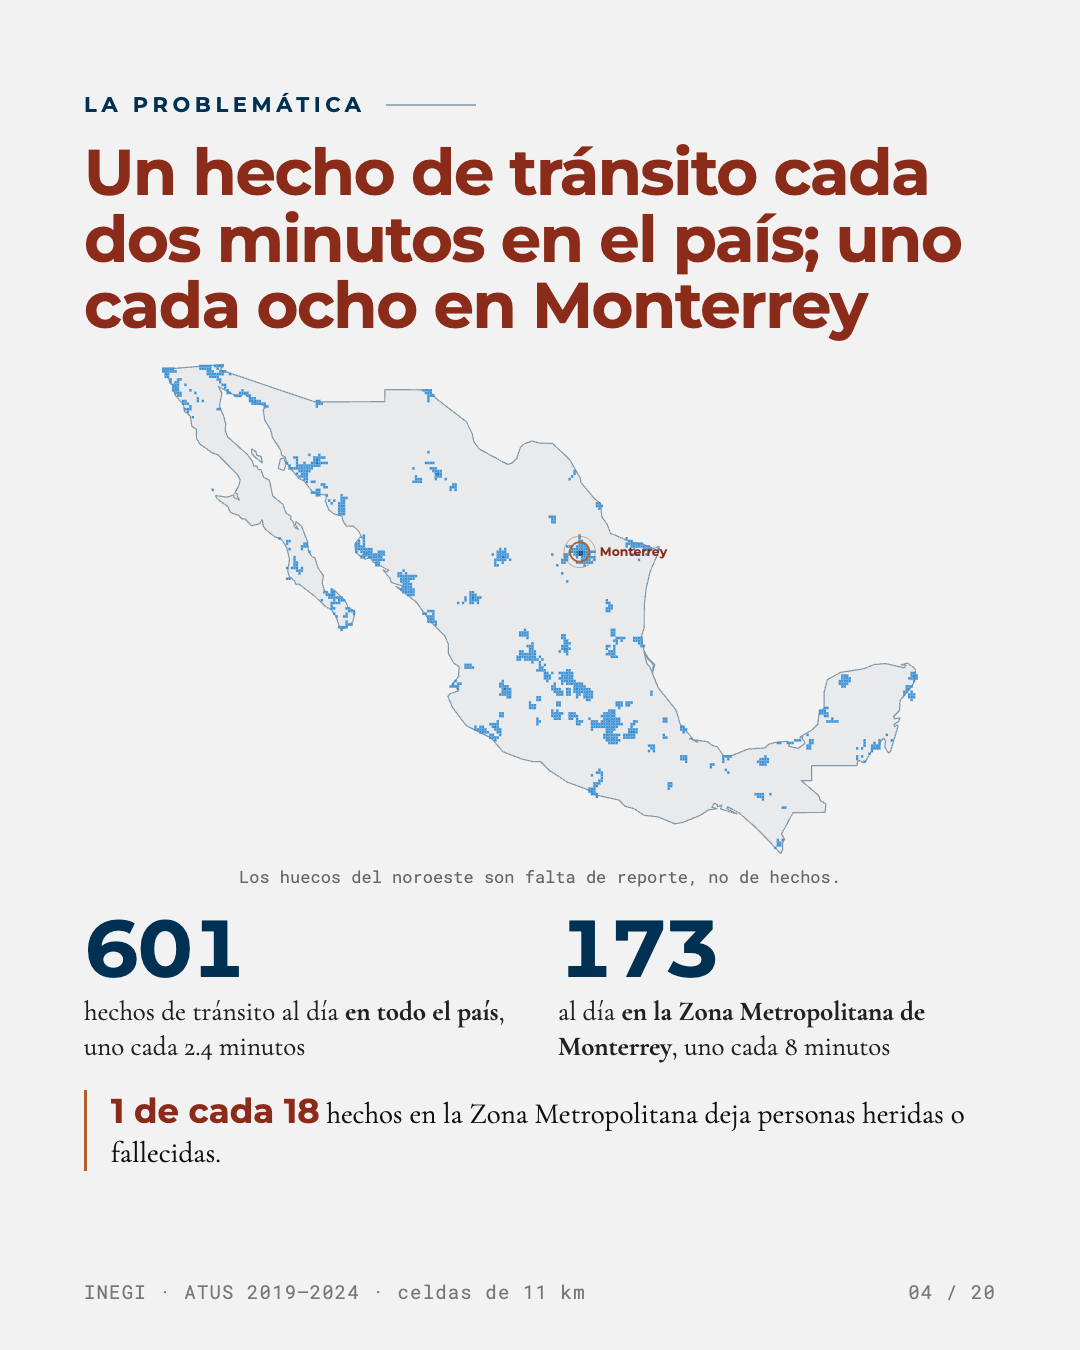
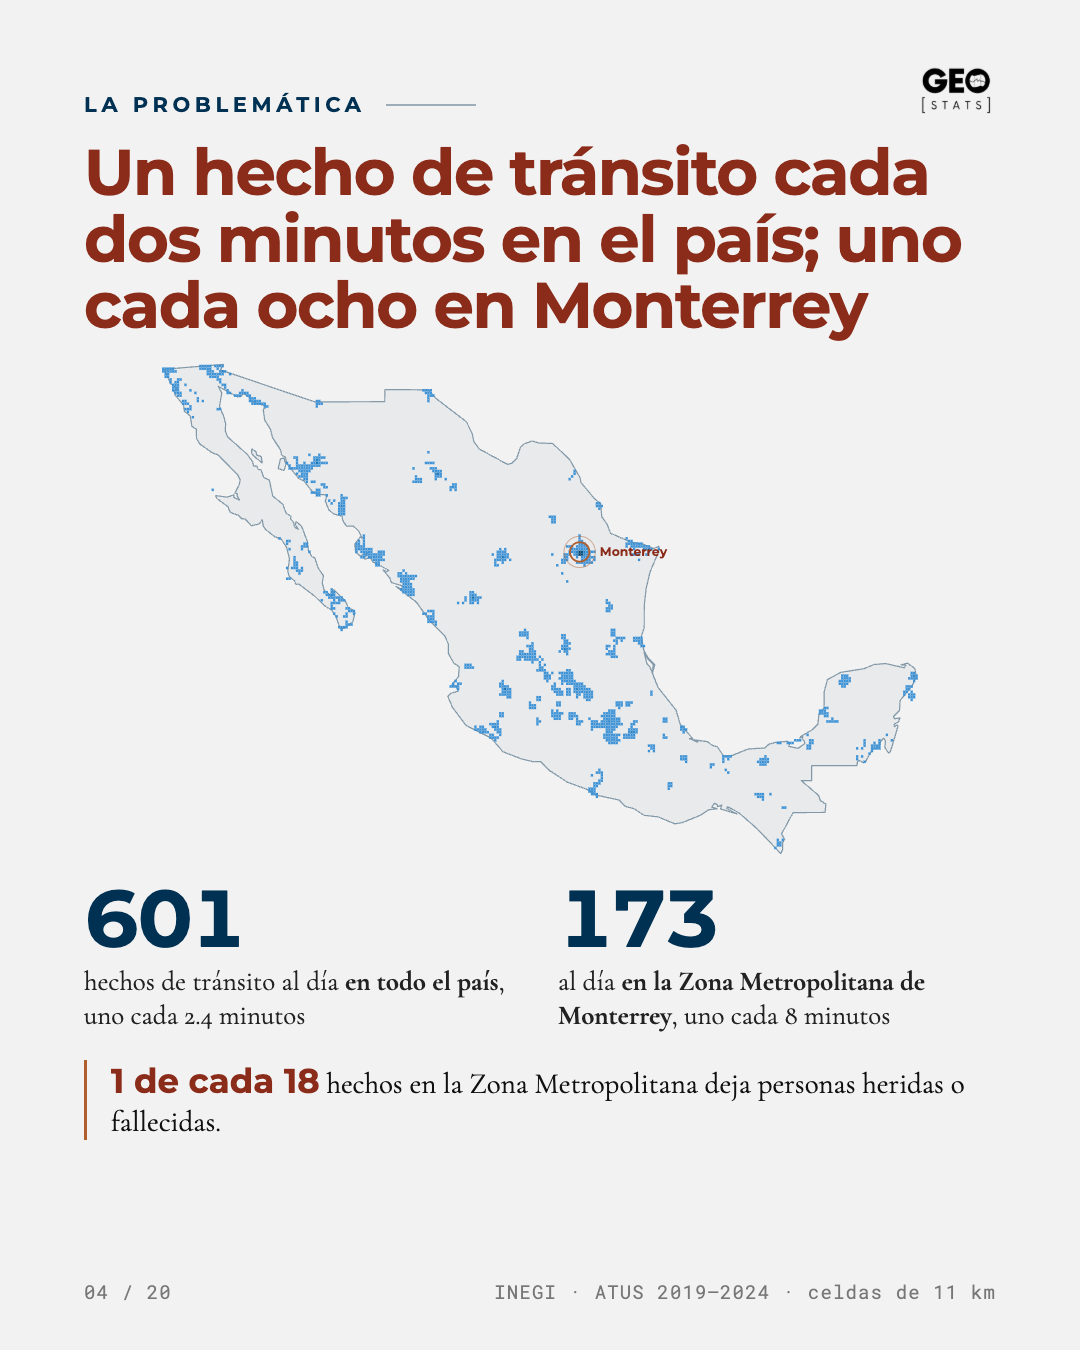
feat(publicacion): añade la nota periodística y el logotipo en cada lámina
El carrusel dejaba el lugar de la lámina 02 vacío a la espera de los
autores. Ahora la nota periodística se incluye como recorte propio y se
genera junto con las demás; solo la 15 (foto de la app) sigue pendiente.

Las imágenes propias viven en publicacion/logos/ y tienen prioridad
sobre las de la presentación, así el carrusel puede usar el logotipo
nuevo de SDLM (fondo transparente) sin tocar el de la presentación.

La firma pasa de un texto "GEOSTATS" en el pie a un logotipo arriba a la
derecha en todas las láminas salvo la portada, que lleva el de SDLM. El
pie queda con el número de lámina a la izquierda y la fuente a la
derecha.

También se ajustan textos para que se lean mejor: la leyenda de color
en la lámina de los datos, la explicación de la hora pico y la de la
concentración de cruces. Se regeneran todas las láminas.

diff --git a/publicacion/plantilla.html b/publicacion/plantilla.html
@@ -31,11 +31,14 @@ body{margin:0; background:#555; font-family:var(--display); color:var(--grafito)
   padding:92px 84px 120px; display:flex; flex-direction:column; margin:0 0 40px}
 .ig.hondo{background:var(--prusia); color:#EAF1F6}
 
-/* pie fijo: firma y número de lámina dentro del carrusel */
-.folio{position:absolute; left:84px; right:84px; bottom:46px; display:flex; justify-content:space-between;
+/* pie fijo: número de lámina a la izquierda y, si hay, la fuente a la derecha */
+.folio{position:absolute; left:84px; right:84px; bottom:46px; display:flex; justify-content:space-between; gap:40px;
   align-items:center; font-family:var(--cifra); font-size:19px; letter-spacing:.06em; color:rgba(44,44,44,.62); z-index:5}
-.folio b{font-family:var(--display); font-weight:700; letter-spacing:.14em; color:var(--prusia)}
-.hondo .folio{color:rgba(187,216,234,.7)} .hondo .folio b{color:#fff}
+.folio span+span{text-align:right}
+.hondo .folio{color:rgba(187,216,234,.7)}
+/* firma: el logotipo arriba a la derecha (el script lo pone en todas menos la portada) */
+.marca{position:absolute; top:64px; right:84px; height:54px; z-index:6}
+.hondo .marca{filter:invert(1); opacity:.94}
 
 .ceja{font-size:21px; font-weight:700; letter-spacing:.22em; text-transform:uppercase; color:var(--prusia);
   display:flex; align-items:center; gap:20px; flex:none; position:relative; z-index:3}
@@ -122,6 +125,7 @@ tr.cima td.n{color:var(--ladrillo); font-weight:700}
 .velo{position:absolute; inset:0; z-index:1; pointer-events:none}
 .sangre{position:absolute; inset:0; z-index:0}
 .desliza{font-family:var(--display); font-weight:700; font-size:22px; letter-spacing:.2em; text-transform:uppercase; color:#E8A88F}
+.recorte{display:block; max-width:100%; max-height:100%; margin:0 auto; box-shadow:0 30px 60px -28px rgba(0,49,83,.5)}
 </style>
 </head>
 <body>
@@ -131,18 +135,23 @@ tr.cima td.n{color:var(--ladrillo); font-weight:700}
 <section class="ig hondo" data-archivo="01_portada">
   <div class="sangre mapa" id="mPortada"></div>
   <div class="velo" style="background:linear-gradient(180deg,#003153 0%,#003153 30%,rgba(0,49,83,.86) 42%,rgba(0,49,83,.15) 62%,rgba(0,49,83,0) 72%,rgba(0,49,83,.55) 86%,#003153 100%)"></div>
-  <div style="display:flex;align-items:center;gap:40px;position:relative;z-index:3">
+  <div style="display:flex;align-items:center;justify-content:flex-end;gap:40px;position:relative;z-index:3">
+    <img src="{{IMG:sdlm.png}}" alt="SDLM" style="height:54px;filter:invert(1);opacity:.94">
     <img src="{{IMG:geostats.png}}" alt="GeoStats" style="height:92px;filter:invert(1);opacity:.94">
-    <img src="{{IMG:sdlm.png}}" alt="SDLM" style="height:56px;filter:invert(1);opacity:.94">
   </div>
   <div class="ceja" style="margin-top:58px">Zona Metropolitana de Monterrey</div>
   <h1>¿Dónde es peligroso moverse en Monterrey?</h1>
   <p class="entrada" style="margin-top:28px;font-size:36px">379,294 hechos de tránsito en seis años, en un solo mapa.</p>
-  <div style="margin-top:auto;position:relative;z-index:3;display:flex;justify-content:space-between;align-items:flex-end">
-    <div class="nota" style="font-size:18px;color:#BBD8EA">Datos: INEGI · ATUS 2019–2024<br>Cada hexágono mide 1 km; el color es cuántos hechos cayeron dentro.</div>
-    <div class="desliza">Desliza →</div>
+  <div class="folio"><span>01 / 20</span></div>
+</section>
+
+<!-- ======================================== 02 · NOTA PERIODÍSTICA ===== -->
+<section class="ig" data-archivo="02_nota_periodistica">
+  <div class="ceja">En la prensa</div>
+  <div class="marco" style="margin-top:40px;justify-content:center">
+    <img class="recorte" src="{{IMG:nota_periodistica.jpg}}" alt="Nota: Identifican en la Ciudad cruces viales peligrosos">
   </div>
-  <div class="folio"><b>GEOSTATS</b><span>01 / 20</span></div>
+  <div class="folio"><span>02 / 20</span></div>
 </section>
 
 <!-- ================================================ 03 · POR QUÉ ======= -->
@@ -158,7 +167,7 @@ tr.cima td.n{color:var(--ladrillo); font-weight:700}
   </div>
   <div class="mapa" id="mPorQue" style="position:absolute;left:0;right:0;bottom:0;height:420px;z-index:0"></div>
   <div class="velo" style="top:auto;height:420px;background:linear-gradient(180deg,#F2F2F2 0%,rgba(242,242,242,.55) 40%,rgba(242,242,242,.15) 100%)"></div>
-  <div class="folio" style="color:#2C2C2C"><b>GEOSTATS</b><span>03 / 20</span></div>
+  <div class="folio" style="color:#2C2C2C"><span>03 / 20</span></div>
 </section>
 
 <!-- =================================== 04 · LA PROBLEMÁTICA (lámina 4) == -->
@@ -167,14 +176,13 @@ tr.cima td.n{color:var(--ladrillo); font-weight:700}
   <h2>Un hecho de tránsito cada dos minutos en el país; uno cada ocho en Monterrey</h2>
   <div class="marco" style="gap:20px;margin-top:20px">
     <div class="mapa" id="mMX" style="height:500px;margin:0 -30px"></div>
-    <div class="nota" style="margin-top:-14px;text-align:center">Los huecos del noroeste son falta de reporte, no de hechos.</div>
     <div class="fila" style="align-items:flex-start;gap:36px">
       <div style="flex:1"><div class="l">601</div><div class="pie">hechos de tránsito al día <b>en todo el país</b>, uno cada 2.4 minutos</div></div>
       <div style="flex:1"><div class="l">173</div><div class="pie">al día <b>en la Zona Metropolitana de Monterrey</b>, uno cada 8 minutos</div></div>
     </div>
     <div class="dato" style="margin-top:6px"><div class="txt"><b class="arde" style="font-family:var(--display);font-size:34px">1 de cada 18</b> hechos en la Zona Metropolitana deja personas heridas o fallecidas.</div></div>
   </div>
-  <div class="folio"><span>INEGI · ATUS 2019–2024 · celdas de 11 km</span><span>04 / 20</span></div>
+  <div class="folio"><span>04 / 20</span><span>INEGI · ATUS 2019–2024 · celdas de 11 km</span></div>
 </section>
 
 <!-- ======================================= 05 · LOS DATOS (lámina 6) ==== -->
@@ -185,7 +193,7 @@ tr.cima td.n{color:var(--ladrillo); font-weight:700}
     <dl class="especificaciones" style="gap:34px">
       <div class="especificacion"><dt>Qué es</dt><dd><b>Accidentes de Tránsito Terrestre en Zonas Urbanas y Suburbanas</b> (ATUS). Un censo, no una encuesta: no se estima, se cuenta.</dd></div>
       <div class="especificacion"><dt>Quién</dt><dd>El <b>INEGI</b>, con los partes que levantan las policías de tránsito de cada municipio.</dd></div>
-      <div class="especificacion"><dt>Desde</dt><dd>La serie arranca en <b>1997</b>. La versión con coordenadas, apenas en <b>2019</b>, y por eso este trabajo empieza ahí.</dd></div>
+      <div class="especificacion"><dt>Cuándo</dt><dd>La serie arranca en <b>1997</b>. La versión con coordenadas, apenas en <b>2019</b>, y por eso este trabajo empieza ahí.</dd></div>
     </dl>
     <div>
       <div style="height:38px;background:rgba(0,49,83,.09);position:relative">
@@ -201,15 +209,16 @@ tr.cima td.n{color:var(--ladrillo); font-weight:700}
       <svg viewBox="-1.1 -1 2.2 2" style="width:132px;flex:none"><use href="#hx" fill="#005991" fill-opacity=".14" stroke="#003153" stroke-width=".035"/>
         <line x1="-1" y1="0" x2="1" y2="0" stroke="#B15E2E" stroke-width=".02" stroke-dasharray=".06 .045"/>
         <text x="0" y="-.14" text-anchor="middle" font-family="Roboto Mono" font-size=".22" fill="#B15E2E">1 km</text></svg>
-      <div class="pie" style="margin:0"><b style="font-family:var(--display);font-size:24px;letter-spacing:.06em;color:var(--prusia)">CÓMO LEER LOS MAPAS</b><br>Cada celda es un hexágono de un kilómetro de punta a punta. El color es cuántos hechos cayeron dentro.</div>
+      <div class="pie" style="margin:0"><b style="font-family:var(--display);font-size:24px;letter-spacing:.06em;color:var(--prusia)">CÓMO LEER LOS MAPAS</b><br>Cada celda es un hexágono de un kilómetro de punta a punta. Mientras más intenso es su color, más hechos de tránsito ocurrieron dentro de ese hexágono.
+        <div class="leyenda" style="margin-top:14px"><span>pocos</span><span class="rampa" style="width:220px;height:14px;background:linear-gradient(90deg,#F2F2F2,#9EC6E4,#4195d9,#1b77b8,#005991,#003153);outline:1px solid rgba(0,49,83,.18)"></span><span>muchos hechos</span></div></div>
     </div>
   </div>
-  <div class="folio"><span>inegi.org.mx/programas/accidentes</span><span>05 / 20</span></div>
+  <div class="folio"><span>05 / 20</span><span>inegi.org.mx/programas/accidentes</span></div>
 </section>
 
 <!-- ============================== 06 · HERIDOS Y DEFUNCIONES ========== -->
 <section class="ig" data-archivo="06_heridos_y_defunciones">
-  <div class="ceja">Las personas detrás de los registros</div>
+  <div class="ceja">Las personas en los registros</div>
   <h2>Los heridos siguen al tráfico; las defunciones, no</h2>
   <div class="marco" style="gap:22px;margin-top:28px">
     <div class="fila" style="gap:24px;align-items:stretch">
@@ -224,7 +233,7 @@ tr.cima td.n{color:var(--ladrillo); font-weight:700}
     </div>
     <div class="dato"><div class="txt">El 5 % de las zonas con más hechos concentra el 43 % de los hechos y solo el <b>25 % de las defunciones</b>. Santiago registra 18 defunciones por cada mil hechos; Monterrey, 2.</div></div>
   </div>
-  <div class="folio"><span>2019–2024 · color: personas por zona</span><span>06 / 20</span></div>
+  <div class="folio"><span>06 / 20</span><span>2019–2024 · color: personas por zona</span></div>
 </section>
 
 <!-- ================================== 07 · GRUPOS VULNERABLES ========== -->
@@ -232,18 +241,18 @@ tr.cima td.n{color:var(--ladrillo); font-weight:700}
   <div class="ceja">Quién</div>
   <h2>Los grupos vulnerables de la ciudad</h2>
   <div class="marco" style="gap:0;margin-top:26px" id="vulnerables"></div>
-  <div class="folio"><span>2019–2024 · color: hechos por zona</span><span>07 / 20</span></div>
+  <div class="folio"><span>07 / 20</span><span>2019–2024 · color: hechos por zona</span></div>
 </section>
 
 <!-- ======================================== 08 · HORA Y DÍA ============ -->
 <section class="ig" data-archivo="08_hora_y_dia">
   <div class="ceja">El calendario</div>
-  <h2>El pico no es de madrugada: es la hora pico</h2>
+  <h2>El pico es en la mañana</h2>
   <div class="marco" style="gap:20px;margin-top:24px">
     <div id="gHoraDia" style="flex:1;min-height:0"></div>
-    <div class="dato"><div class="txt">Martes a las 8 de la mañana, sábado a las 2 y viernes a las 3 de la tarde: casi empatados. Solo el <b>8.6 %</b> ocurre entre medianoche y las cinco. Es exposición, no imprudencia nocturna.</div></div>
+    <div class="dato"><div class="txt">La hora con más hechos es el <b>martes a las 8 de la mañana</b>; muy cerca le siguen el sábado a las 2 y el viernes a las 3 de la tarde. En cambio, entre la medianoche y las cinco de la mañana ocurre solo el <b>8.6 %</b>. Los hechos se acumulan cuando más gente está en la calle, no de madrugada.</div></div>
   </div>
-  <div class="folio"><span>Hechos de tránsito por hora y día · 2019–2024</span><span>08 / 20</span></div>
+  <div class="folio"><span>08 / 20</span><span>Hechos de tránsito por hora y día · 2019–2024</span></div>
 </section>
 
 <!-- ======================================== 09 · CORREDORES ============ -->
@@ -255,7 +264,7 @@ tr.cima td.n{color:var(--ladrillo); font-weight:700}
     <div class="mapa" id="mCorredores" style="height:470px;margin:0 -84px"></div>
     <div class="barras" id="bCorredores"></div>
   </div>
-  <div class="folio"><span>Hechos 2019–2024 sumando todos los cruces de cada avenida</span><span>09 / 20</span></div>
+  <div class="folio"><span>09 / 20</span><span>Hechos 2019–2024 sumando todos los cruces de cada avenida</span></div>
 </section>
 
 <!-- ========================================== 10 · COSTO HUMANO ======== -->
@@ -263,7 +272,7 @@ tr.cima td.n{color:var(--ladrillo); font-weight:700}
   <div class="ceja">El costo humano</div>
   <h2>Dónde cuestan vidas los hechos de tránsito</h2>
   <div class="marco" style="margin-top:30px"><div id="gArbol" style="flex:1;min-height:0"></div></div>
-  <div class="folio"><span>Cada rama reparte los 379,294 hechos de tránsito · 2019–2024</span><span>10 / 20</span></div>
+  <div class="folio"><span>10 / 20</span><span>Cada rama reparte los 379,294 hechos de tránsito · 2019–2024</span></div>
 </section>
 
 <!-- ========================================== 11 · CONCENTRACIÓN ======= -->
@@ -279,9 +288,9 @@ tr.cima td.n{color:var(--ladrillo); font-weight:700}
       <thead><tr><th>Los peores…</th><th class="n">% de los cruces</th><th class="n">% acumulado de hechos</th></tr></thead>
       <tbody id="tHitos" class="holgada"></tbody>
     </table>
-    <div class="dato"><div class="txt">Al revés: el <b>91 %</b> de los cruces aporta menos de un tercio. Repartir el presupuesto parejo es repartirlo donde casi no pasa nada.</div></div>
+    <div class="dato"><div class="txt">Casi 50 mil cruces (el <b>91 %</b>) reúnen apenas el 32 % de los hechos. Atender primero los 1,000 peores rinde más que repartir parejo.</div></div>
   </div>
-  <div class="folio"><span>Cruces ordenados de más a menos hechos · 2019–2024</span><span>11 / 20</span></div>
+  <div class="folio"><span>11 / 20</span><span>Cruces ordenados de más a menos hechos · 2019–2024</span></div>
 </section>
 
 <!-- ======================================== 12 · LOS DIEZ PEORES ======= -->
@@ -292,7 +301,7 @@ tr.cima td.n{color:var(--ladrillo); font-weight:700}
     <div class="mapa" id="mTop10" style="height:500px;margin:0 -84px"></div>
     <table id="tTop10" style="margin-top:4px"></table>
   </div>
-  <div class="folio"><span>Hechos de tránsito por cruce · 2019–2024</span><span>12 / 20</span></div>
+  <div class="folio"><span>12 / 20</span><span>Hechos de tránsito por cruce · 2019–2024</span></div>
 </section>
 
 <!-- ============================================ 13 · TENDENCIA ========= -->
@@ -304,7 +313,7 @@ tr.cima td.n{color:var(--ladrillo); font-weight:700}
     <div id="anios" style="display:grid;grid-template-columns:repeat(3,1fr);gap:8px 18px"></div>
     <div class="dato"><div class="txt">De los 200 peores cruces, <b>155 aparecen los seis años</b>, con una pandemia en medio. Un problema que se queda quieto se puede planear.</div></div>
   </div>
-  <div class="folio"><span>Hechos de tránsito por año · misma escala de color</span><span>13 / 20</span></div>
+  <div class="folio"><span>13 / 20</span><span>Hechos de tránsito por año · misma escala de color</span></div>
 </section>
 
 <!-- ========================================== 14 · PRONÓSTICO 2027 ===== -->
@@ -325,7 +334,7 @@ tr.cima td.n{color:var(--ladrillo); font-weight:700}
       <tbody id="tMunicipios"></tbody>
     </table>
   </div>
-  <div class="folio"><span>Modelo jerárquico por zona · color: hechos esperados</span><span>14 / 20</span></div>
+  <div class="folio"><span>14 / 20</span><span>Modelo jerárquico por zona · color: hechos esperados</span></div>
 </section>
 
 <!-- ============================================ 16 · REFLEXIÓN ========= -->
@@ -340,7 +349,7 @@ tr.cima td.n{color:var(--ladrillo); font-weight:700}
       <div class="pregunta"><div class="np">04</div><div class="q">¿Qué nos gustaría poder decirles a quienes hoy transitan por esas zonas?</div></div>
     </div>
   </div>
-  <div class="folio"><b>GEOSTATS</b><span>16 / 20</span></div>
+  <div class="folio"><span>16 / 20</span></div>
 </section>
 
 <!-- =========================================== 17 · TRANSICIÓN ========= -->
@@ -358,7 +367,7 @@ tr.cima td.n{color:var(--ladrillo); font-weight:700}
     </div>
     <div class="desliza" style="margin-top:46px">Desliza →</div>
   </div>
-  <div class="folio"><b>GEOSTATS</b><span>17 / 20</span></div>
+  <div class="folio"><span>17 / 20</span></div>
 </section>
 
 <!-- ================================================ 18-20 · QR ========= -->
@@ -370,7 +379,7 @@ tr.cima td.n{color:var(--ladrillo); font-weight:700}
     <div class="url">app-geo-eosin.vercel.app</div>
     <div class="pie" style="text-align:center;max-width:40ch">Acércate hasta tu calle, filtra por año y tipo de usuario, y mira cuántos hechos espera el modelo en 2027.</div>
   </div>
-  <div class="folio"><b>GEOSTATS</b><span>18 / 20</span></div>
+  <div class="folio"><span>18 / 20</span></div>
 </section>
 
 <section class="ig" data-archivo="19_qr_repositorio">
@@ -381,7 +390,7 @@ tr.cima td.n{color:var(--ladrillo); font-weight:700}
     <div class="url">github.com/Lunaaaalj/GeoStats</div>
     <div class="pie" style="text-align:center;max-width:40ch">Código abierto, datos del INEGI sin modificar y cada análisis con su reporte. Repite el estudio de principio a fin.</div>
   </div>
-  <div class="folio"><b>GEOSTATS</b><span>19 / 20</span></div>
+  <div class="folio"><span>19 / 20</span></div>
 </section>
 
 <section class="ig" data-archivo="20_qr_presentacion">
@@ -392,7 +401,7 @@ tr.cima td.n{color:var(--ladrillo); font-weight:700}
     <div class="url">geo-stats-three.vercel.app</div>
     <div class="pie" style="text-align:center;max-width:40ch">Todas las láminas de la Semana de la Movilidad, con el mapa que responde al cursor.</div>
   </div>
-  <div class="folio"><b>GEOSTATS</b><span>20 / 20</span></div>
+  <div class="folio"><span>20 / 20</span></div>
 </section>
 
 <script id="datos" type="application/json">{{DATOS}}</script>
@@ -406,6 +415,13 @@ tr.cima td.n{color:var(--ladrillo); font-weight:700}
   function svgEl(t, a){ var n = document.createElementNS("http://www.w3.org/2000/svg", t); for (var k in a) n.setAttribute(k, a[k]); return n; }
   function texto(padre, a, t){ var n = svgEl("text", a); n.textContent = t; padre.appendChild(n); return n; }
   function $(id){ return document.getElementById(id); }
+
+  var LOGO = "{{IMG:geostats.png}}";
+  document.querySelectorAll("section.ig:not([data-archivo='01_portada'])").forEach(function(sec){
+    var img = document.createElement("img");
+    img.className = "marca"; img.src = LOGO; img.alt = "GeoStats";
+    sec.appendChild(img);
+  });
 
   /* --- rampas: las mismas de la presentación ------------------------------ */
   var RAMPAS = {

diff --git a/publicacion/construir.py b/publicacion/construir.py
@@ -8,12 +8,15 @@ fotografía cada lámina por separado.
 
     uv run --with segno --with playwright --no-project python publicacion/construir.py
 
-Faltan a propósito el 02 (la nota periodística) y el 15 (la foto de la app):
-esos los ponen los autores y la numeración ya les deja su lugar.
+Las imágenes propias del carrusel (la nota periodística del 02 y el logotipo
+de SDLM de la portada) viven en `publicacion/logos/` y tienen prioridad sobre
+las de la presentación. Falta a propósito el 15 (la foto de la app): esa la
+ponen los autores y la numeración ya le deja su lugar.
 """
 
 from __future__ import annotations
 
+import base64
 import re
 import sys
 import tempfile
@@ -27,11 +30,22 @@ sys.path.insert(0, str(PRESENTACION))
 
 import construir as base  # noqa: E402  (el construir.py de la presentación)
 
+TIPOS = {".png": "image/png", ".jpg": "image/jpeg", ".jpeg": "image/jpeg"}
+
+
+def resolver(marca: re.Match[str]) -> str:
+    """Como el de la presentación, pero `{{IMG:…}}` busca primero en logos/ de aquí."""
+    propia = AQUI / "logos" / marca.group(2)
+    if marca.group(1) == "IMG" and propia.exists():
+        b64 = base64.b64encode(propia.read_bytes()).decode("ascii")
+        return f"data:{TIPOS[propia.suffix.lower()]};base64,{b64}"
+    return base.resolver(marca)
+
 
 def armar() -> str:
     plantilla = (AQUI / "plantilla.html").read_text(encoding="utf-8")
     salida = plantilla.replace("{{DATOS}}", base.datos())
-    return re.sub(r"\{\{(FUENTE|QR_LADO|QR_TRAZO|IMG):([^}]+)\}\}", base.resolver, salida)
+    return re.sub(r"\{\{(FUENTE|QR_LADO|QR_TRAZO|IMG):([^}]+)\}\}", resolver, salida)
 
 
 def main() -> None:

diff --git a/publicacion/README.md b/publicacion/README.md
@@ -1,12 +1,12 @@
 # Publicación — carrusel de Instagram
 
-Veinte láminas verticales de **1080 × 1350** (4:5). Dieciocho se generan aquí;
-las otras dos las ponen los autores y la numeración ya les deja su lugar:
+Veinte láminas verticales de **1080 × 1350** (4:5). Diecinueve se generan aquí;
+la 15 la ponen los autores y la numeración ya le deja su lugar:
 
 | # | Lámina | Origen |
 |---|---|---|
 | 01 | Portada | `01_portada.png` |
-| 02 | Nota periodística | **la proveen los autores** |
+| 02 | Nota periodística | `02_nota_periodistica.png` |
 | 03 | Por qué hicimos esto | `03_por_que.png` |
 | 04 | La problemática (lámina 4 de la presentación) | `04_la_problematica.png` |
 | 05 | De dónde salen los datos (lámina 6) | `05_los_datos.png` |
@@ -40,6 +40,14 @@ Se edita `plantilla.html`; los PNG **se generan**.
 No hay datos propios: todo sale de `docs/presentacion/datos.json`, con las
 mismas fuentes, logotipos y generador de QR (`construir.py` importa el de la
 presentación). Si cambia `datos.json`, basta con volver a correr el script.
+
+`logos/` guarda las imágenes propias del carrusel y tienen prioridad sobre las
+de la presentación: el recorte de la nota periodística y el logotipo nuevo de
+SDLM (fondo transparente, para invertirlo sobre la portada oscura).
+
+- Solo la portada lleva el logotipo de SDLM; todas las demás llevan el de
+  GeoStats arriba a la derecha (lo agrega el script) y el número de lámina
+  abajo a la izquierda.
 
 - Lo observado va en la rampa fría y lo estimado (2027) en la cálida, igual que
   en la presentación.
